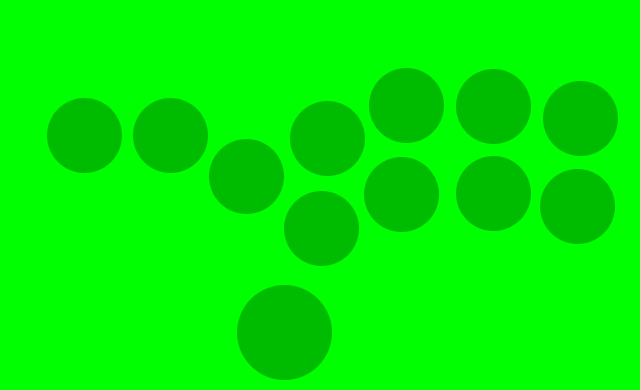
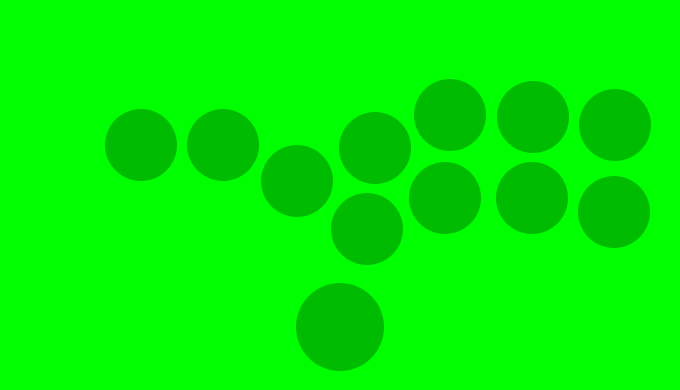
feat: Update leverless layout

diff --git a/fightsticker/__init__.py b/fightsticker/__init__.py
@@ -61,18 +61,18 @@ LAYOUT_LEVERLESS = {
     "select": (50, 318),
     "start": (50, 318),
     "guide": (50, 318),
-    "up": (237, 10),
-    "down": (133, 217),
-    "left": (47, 217),
-    "right": (209, 176),
-    "a": (284, 124),
-    "b": (364, 158),
-    "x": (290, 214),
-    "y": (369, 247),
-    "rb": (456, 246),
-    "lb": (543, 234),
-    "rt": (456, 159),
-    "lt": (540, 146),
+    "up": (296, 19),
+    "down": (187, 209),
+    "left": (105, 209),
+    "right": (261, 173),
+    "x": (339, 206),
+    "y": (414, 239),
+    "rb": (497, 237),
+    "lb": (579, 229),
+    "a": (331, 125),
+    "b": (409, 156),
+    "rt": (496, 156),
+    "lt": (578, 142),
 }
 # Leverless layout images
 IMAGES_LEVERLESS = {
@@ -84,12 +84,12 @@ IMAGES_LEVERLESS = {
     "down": "buttonlv.png",
     "left": "buttonlv.png",
     "right": "buttonlv.png",
-    "a": "buttonlv.png",
-    "b": "buttonlv.png",
     "x": "buttonlv.png",
     "y": "buttonlv.png",
     "rb": "buttonlv.png",
     "lb": "buttonlv.png",
+    "a": "buttonlv.png",
+    "b": "buttonlv.png",
     "rt": "buttonlv.png",
     "lt": "buttonlv.png",
 }
